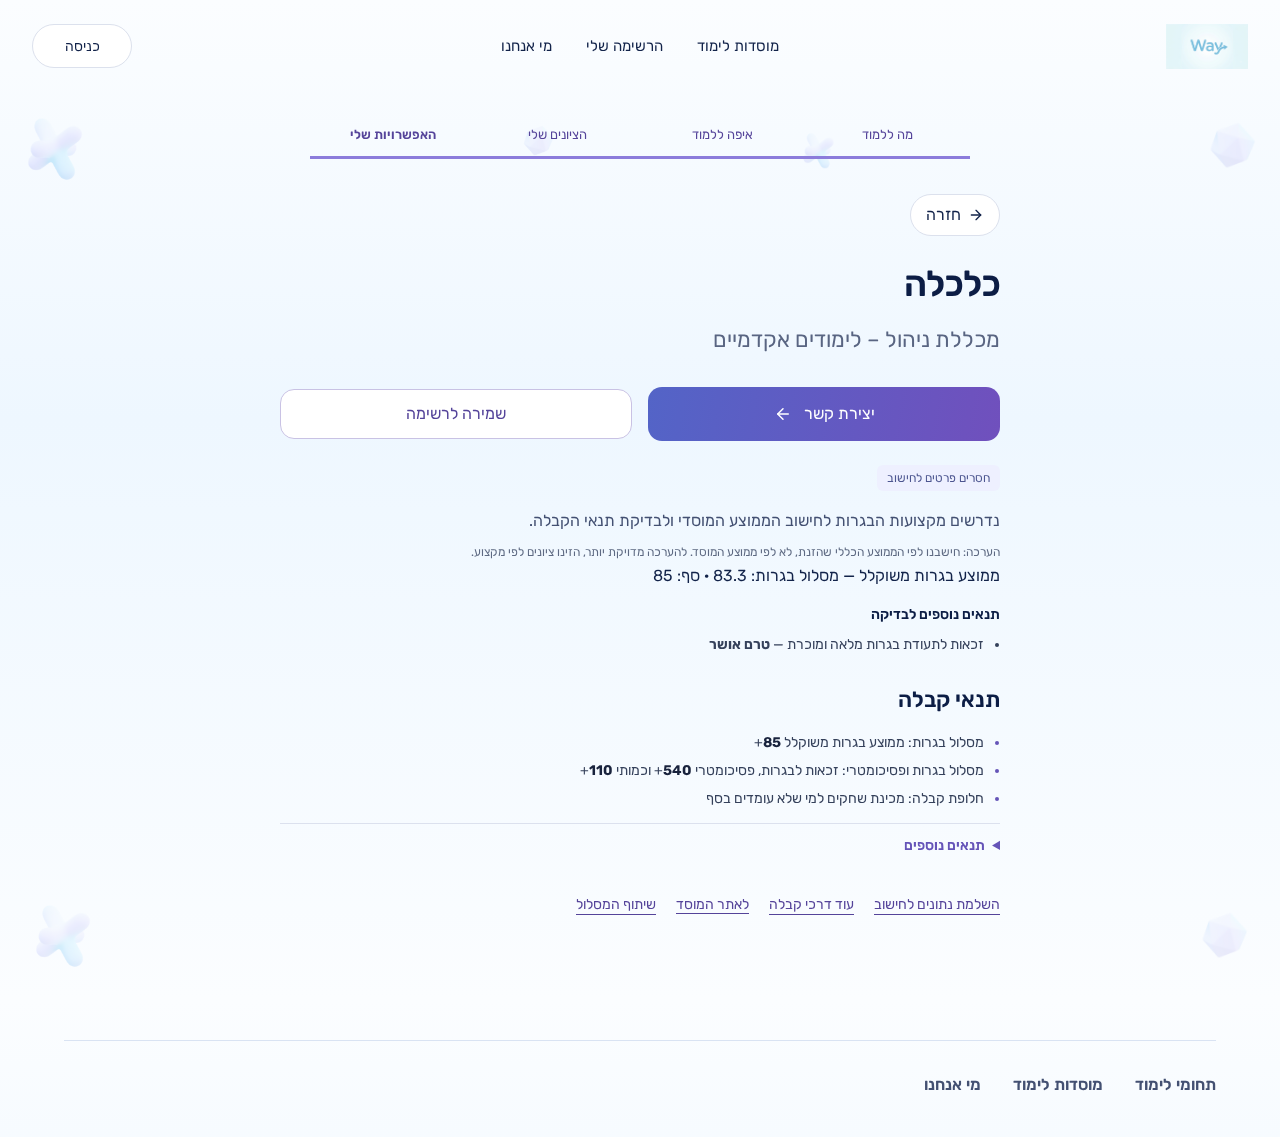
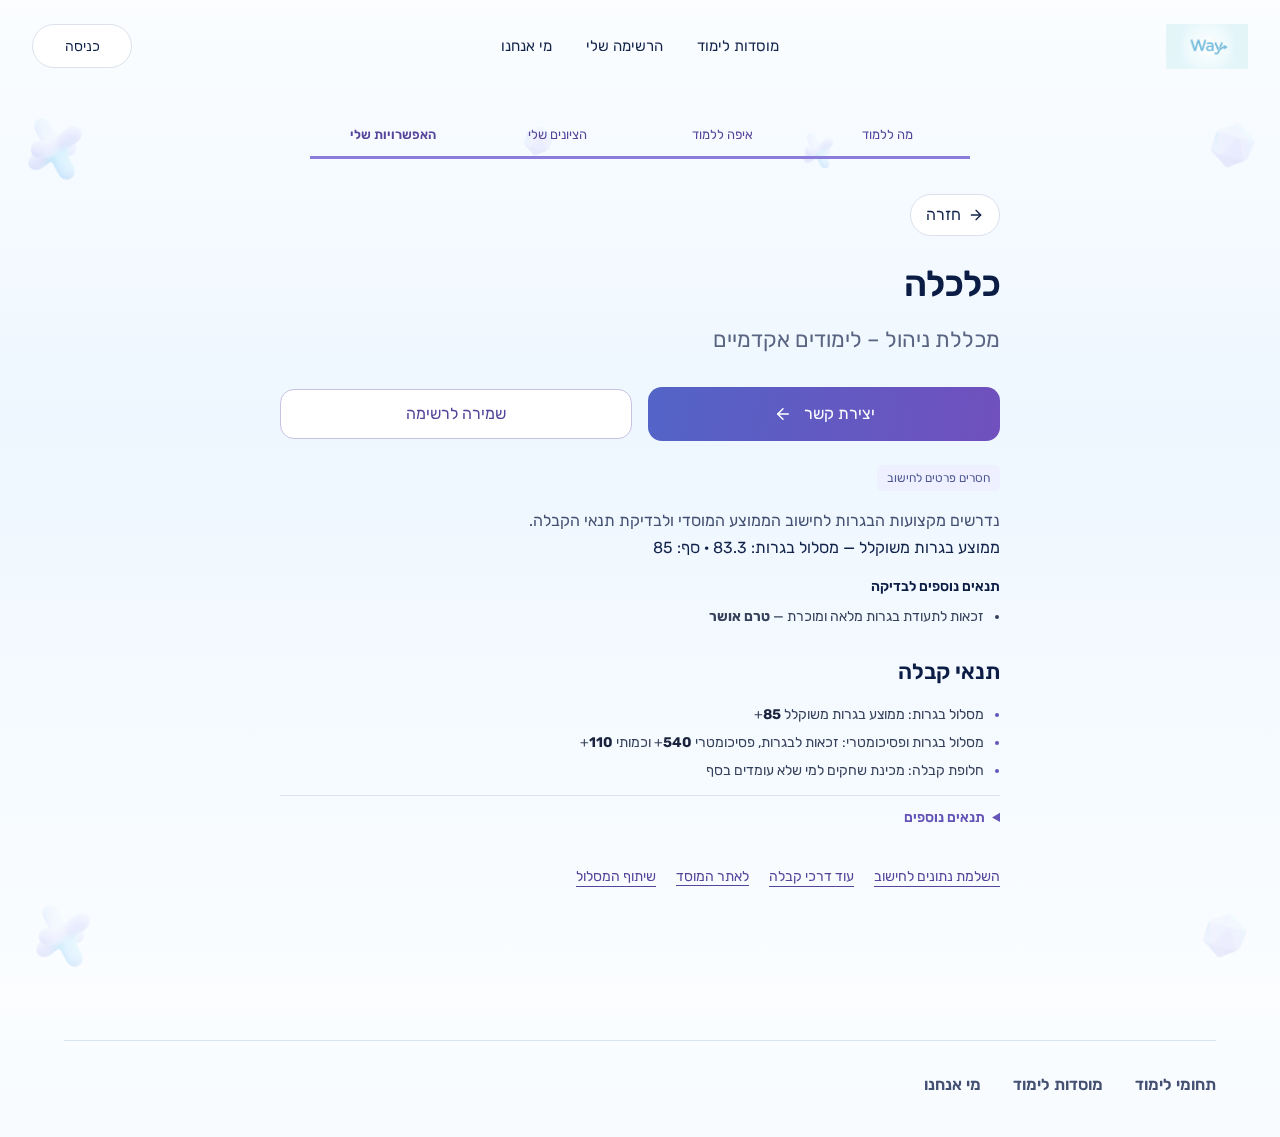
docs(results): refresh estimate scope evidence at desktop and mobile

Changed region(s): [[0.4375, 0.4617, 0.7812, 0.8004]]

diff --git a/docs/admissions-verification/evidence/r1-pr278/README.md b/docs/admissions-verification/evidence/r1-pr278/README.md
@@ -1,17 +1,17 @@
 # PR #278 visual evidence
 
-Code SHA: 372452c. Captured against the local static production build at /app/calculator#detail using headless Chromium, 1280px and 390px widths, 1000px viewport height, full-page screenshots. All evaluations use the actual local API; no response mocks.
+Code SHA: 6c339ad. Captured against the local static production build at /app/calculator#detail using headless Chromium, 1280px and 390px widths, 1000px viewport height, full-page screenshots. All evaluations use the actual local API; no response mocks.
 
-| Files                                  | Programme         | Bagrut | Psychometric | Other inputs                                                  | Expected state                                                              |
-| -------------------------------------- | ----------------- | ------ | ------------ | ------------------------------------------------------------- | --------------------------------------------------------------------------- |
-| economics-1280.png / economics-390.png | colmgmt_economics | 70     | 420          | No subjects, institution average, or confirmations            | manual_gate / below, estimated; no all-route rejection disclaimer           |
-| estimate-1280.png / estimate-390.png   | colmgmt_law       | 110    | 650          | No subjects, institution average, or certificate confirmation | manual_gate / pending, estimated; certificate unconfirmed                   |
-| g2-1280.png / g2-390.png               | colmgmt_economics | 83.3   | 420          | No subjects or institution average                            | needs_input / unknown, estimated; subject record required; 83.3 = 85 × 0.98 |
+| Files                                  | Programme         | Bagrut | Psychometric | Other inputs                                                  | Expected state                                                                                   |
+| -------------------------------------- | ----------------- | ------ | ------------ | ------------------------------------------------------------- | ------------------------------------------------------------------------------------------------ |
+| economics-1280.png / economics-390.png | colmgmt_economics | 70     | 420          | No subjects, institution average, or confirmations            | manual_gate / below, estimated; no all-route rejection disclaimer                                |
+| estimate-1280.png / estimate-390.png   | colmgmt_law       | 110    | 650          | No subjects, institution average, or certificate confirmation | manual_gate / pending, estimated; certificate unconfirmed                                        |
+| g2-1280.png / g2-390.png               | colmgmt_economics | 83.3   | 420          | No subjects or institution average                            | needs_input / unknown, no estimate flag/reason/notice; subject record required; 83.3 = 85 × 0.98 |
 
-Every screenshot must show the average-estimate notice and prominent Contact/Save actions. Script checks right-aligned RTL text, no horizontal overflow, expected API decisions/provenance and no page errors. Images are opened and inspected individually before delivery. verification.json records the observed API states and computed rendering metrics.
+Economics and law show the average-estimate notice; G2 must not show it. Every screenshot shows prominent Contact/Save actions. Script checks right-aligned RTL text, no horizontal overflow, expected API decisions/provenance and no page errors. Images are opened and inspected individually before delivery. verification.json records the observed API states and computed rendering metrics.
 
 VISUAL change — stays draft pending Amit's approval.
 
-Inspection: all six images were opened individually after capture. Economics shows below and no obsolete disclaimer; law shows the estimate notice with unconfirmed certificate; G2 shows missing details and the subject-record next action. All six have right-aligned Hebrew, visible estimate text and no horizontal overflow; Contact and Save remain prominent. Computed estimate style is 12px, RTL/right, muted rgb(94, 106, 131). No page JavaScript errors were recorded.
+Inspection: all six images were opened individually. Economics shows below with the estimate notice and without the obsolete sentence. Law shows pending, the notice and the unconfirmed certificate. G2 shows needs_input with the subject-record action and no estimate flag/reason/notice. Hebrew is right-aligned and readable at both widths; Contact/Save remain prominent, no horizontal overflow or page JavaScript errors. verification.json records measured styles and note visibility for each scenario.
 
-Local verification: static production build succeeded; affected Playwright specs completed 126 passed / 4 existing conditional skips / zero failures. The required guard passed 2,708 tests without a bypass.
+Local checks: 3,625 unit tests passed (86 existing skips), guard passed 2,722 tests without bypass, ten affected Playwright specs passed 126 cases (four existing conditional baseline skips), lint/typecheck/format and static production build passed. The evidence commit changes only images and documentation.
